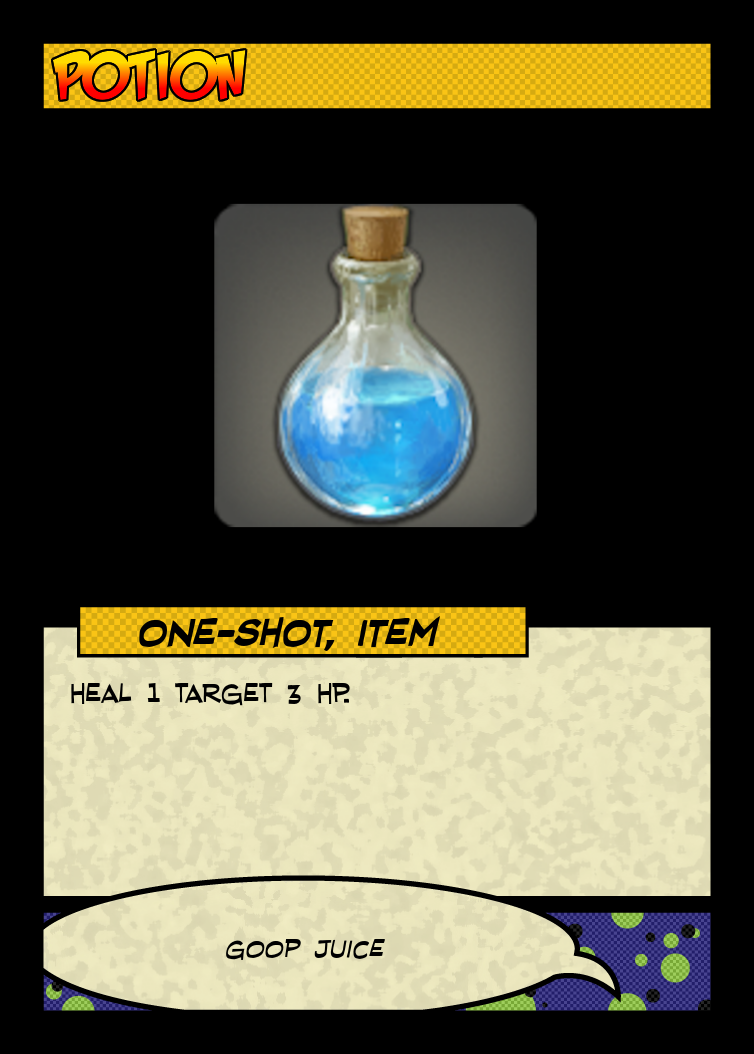
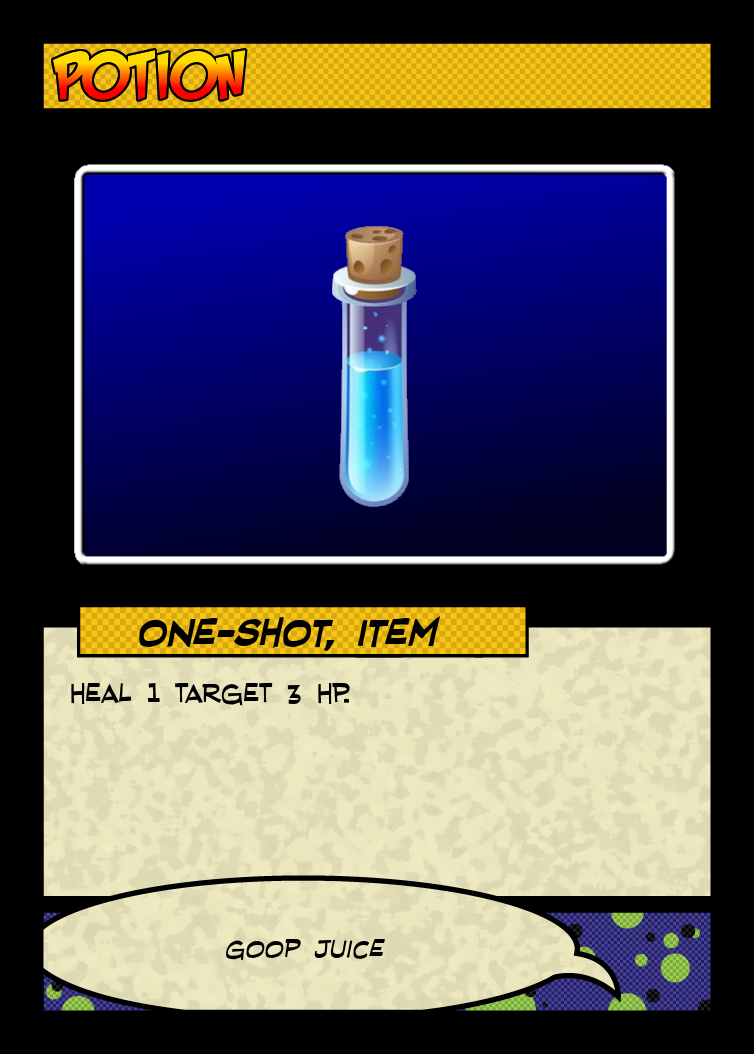
Black Mage Update 2
- Check its Readme (Version 3)

diff --git a/Black Mage/README.md b/Black Mage/README.md
@@ -1,9 +1,14 @@
 ##### Black Mage
-*Version 2*
+*Version 3*
 The **Black Mage** is a low Health DPS unit with access to various ways of dealing with enemies and their cards through the use of Magic.
  - They have an MP resource that goes from 0-10 and have Spells that will require some amount of MP to be able to play them. MP is only spent to initially play the card, not to maintain it.
- - They have 3 Basic Spells with variable MP costs that can be played whenever you're able to play a Spell. Once played, they are set outside of play again instead of put into your Trash. These cards are **Fire**, **Blizzard**, and **Thunder**.
+ - They have 3 Basic Spells with variable MP costs that can be played whenever you're able to play a Spell. These Basic Spells are **Fire**, **Blizzard**, and **Thunder**.
  - The Black Mage has a few Items that are useful for both themself and other targets. For example, Megalixir can be used to fully fill resources that have a capped minimum and maximum, similar to the Black Mage's MP, on top of healing HP.
+
+### Version 3
+ - Fixed a typo with *Swiftcast*
+ - Updated how the Basic Spells *Fire*, *Blizzard*, and *Thunder* function; They're no longer considered cards.
+ - Art updated.
 
 ### Version 2
  - *Ultima* and *Ultima Materia* heavily reworked; *Ultima Materia* now searches for *Ultima* from your Deck or Trash, and *Ultima* no longer needs to be the only spell you cast for two turns.
